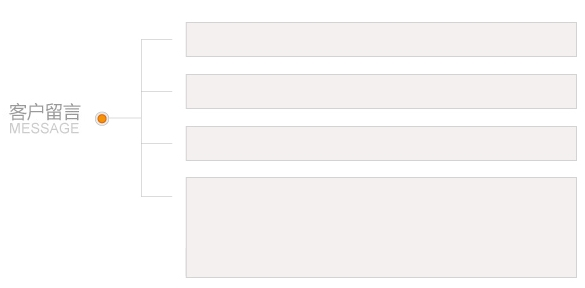
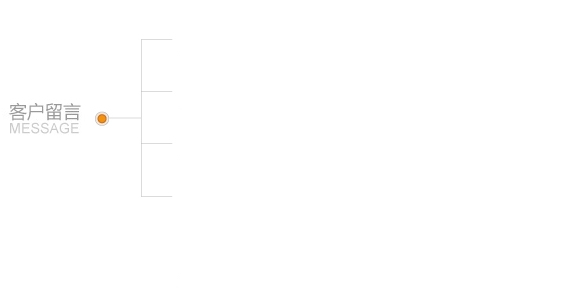
完成了联系我们的表单

diff --git a/all.html b/all.html
@@ -183,7 +183,16 @@
     联系我们
   </div>
   <div id='about_us_left' class='animation_element'>
-    <img src='new_images/about_us_left.jpg' style='width: 550px; height: 300px'/>
+    <div style='background-image: url(new_images/about_us_left.jpg);
+        width: 550px; height: 300px
+      '>
+      <form style='margin: 10px 0 0 170px'>
+        <input type='text'/><br/>
+        <input type='text'/><br/>
+        <input type='text'/><br/>
+        <textarea name='textarea' style='height: 100px'></textarea>
+      </form>
+    </div>
     <input type='button' style='border: 0px; background-color: #F87710; color:white;
       height: 42px; width: 70px; font-size: 16px;
       margin-left: 174px;cursor: pointer

diff --git a/style.css b/style.css
@@ -61,6 +61,12 @@
   position: absolute;
   left: -400px; top: 200px;
 }
+
+#about_us_left form input , #about_us_left form textarea{
+  border: 1px solid #dbdbdb; height: 30px; width: 350px;
+  background-color: #f4f0ef; margin: 10px;
+}
+
 #about_us_right{
   width: 425px; height: 200px;
   position: absolute;

diff --git a/animation.js b/animation.js
@@ -33,6 +33,7 @@ cancel_index_animation = function(){
   $([1,2,3,4,5]).each(function(i, e){
     $('#text' + i).css({opacity: 0})
   })
+  $('#text5').css({opacity: 0})
   $("#index_animation_is_shown").remove()
 }
 
